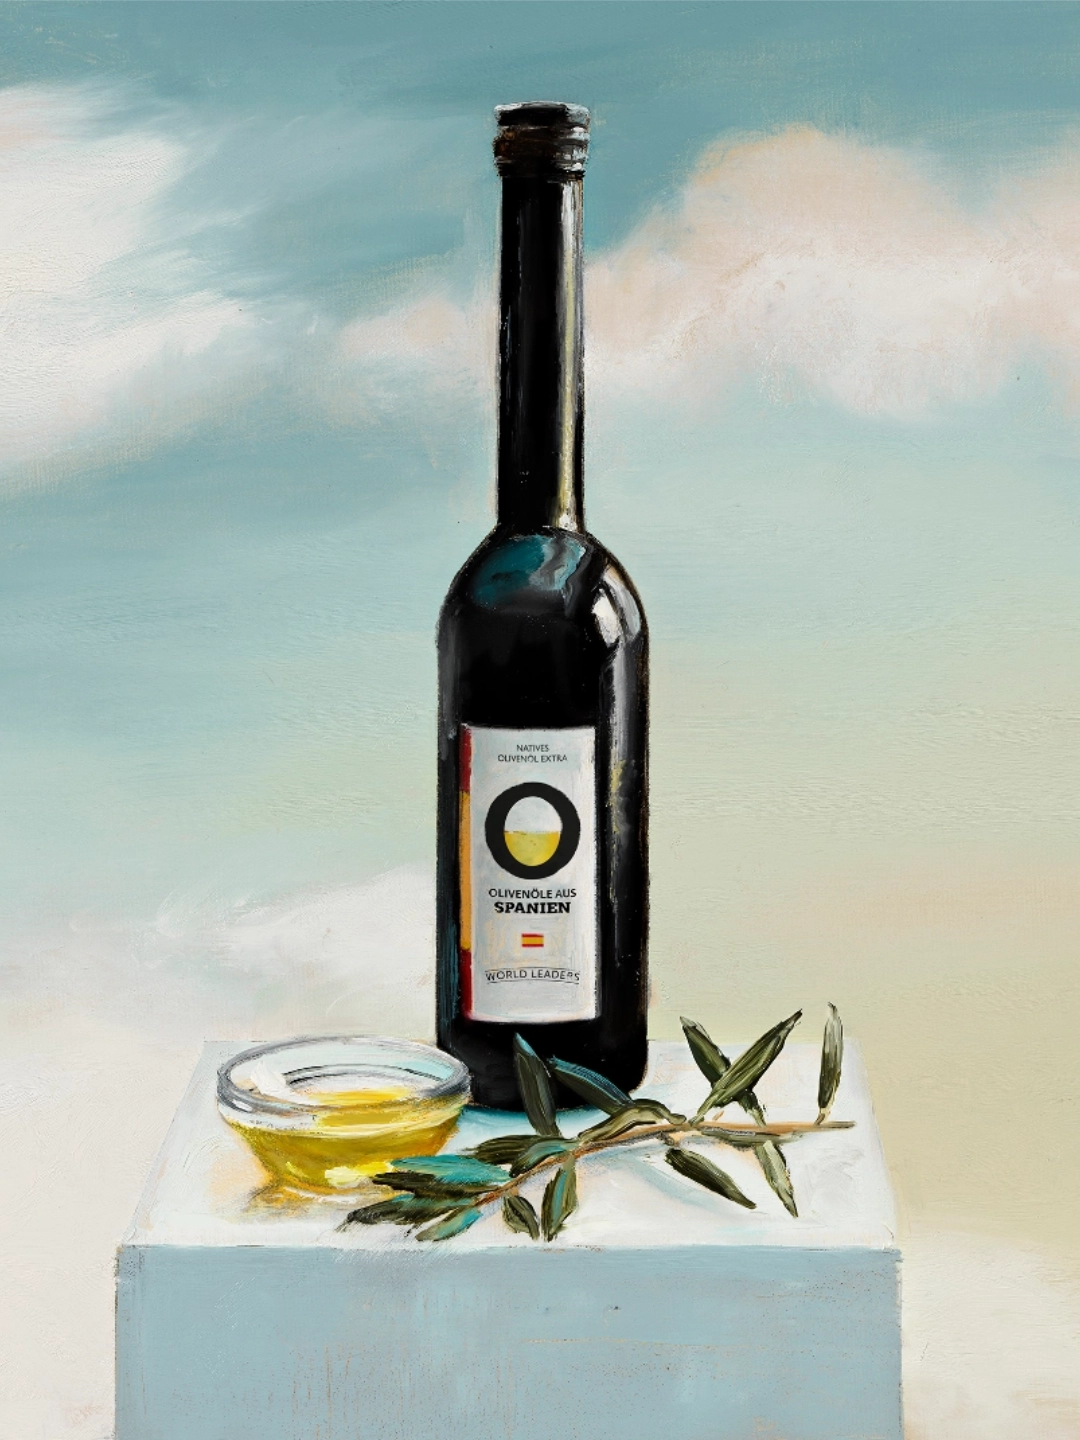
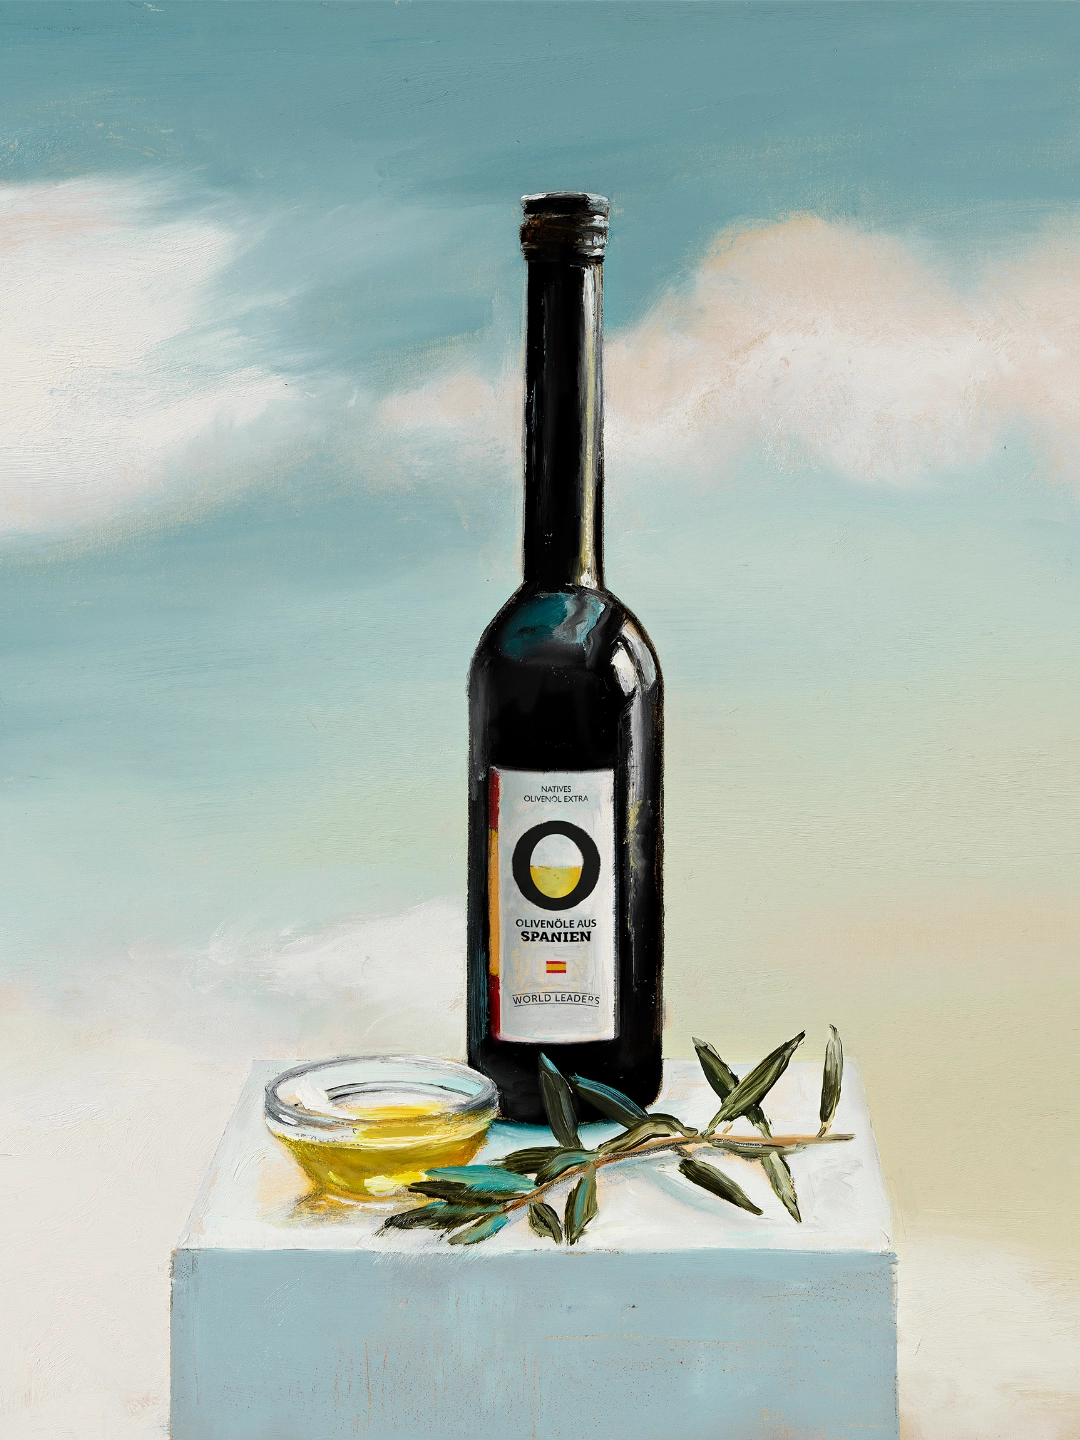
Añade imagen 3 en Proyecto 11 Aceites

diff --git a/proyecto-aceites.html b/proyecto-aceites.html
@@ -68,7 +68,7 @@
         .video-container { position: relative; padding-bottom: 56.25%; height: 0; overflow: hidden; width: 100%; }
         .video-container iframe { position: absolute; top: 0; left: 0; width: 100%; height: 100%; border: 0; }
 
-        /* GALERÍA (IMAGEN 2) */
+        /* GALERÍA (IMÁGENES 2 Y 3) */
         .project-gallery { padding: 4rem 3rem; display: flex; flex-direction: column; gap: 1.5rem; }
         .project-gallery img { width: 100%; height: auto; display: block; object-fit: cover; }
         
@@ -154,9 +154,10 @@
         </div>
     </section>
     
-    <!-- IMAGEN 2 -->
+    <!-- IMAGEN 2 Y 3 -->
     <section class="project-gallery">
         <img src="img/PROYECTO_11_ACEITES/ACEITES_2.webp" alt="Aceites 2">
+        <img src="img/PROYECTO_11_ACEITES/ACEITES_3.webp" alt="Aceites 3">
     </section>
     
     <h2 class="slogan-footer"></h2>
